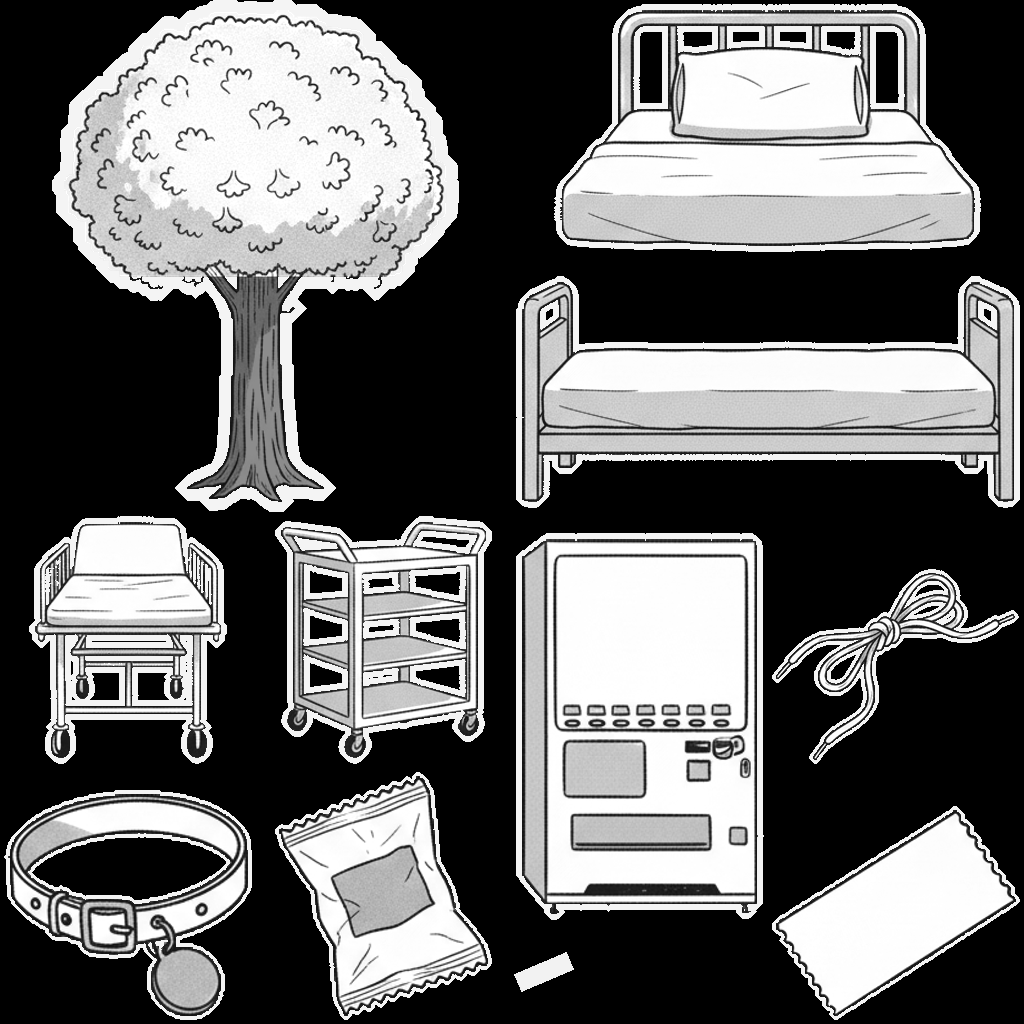
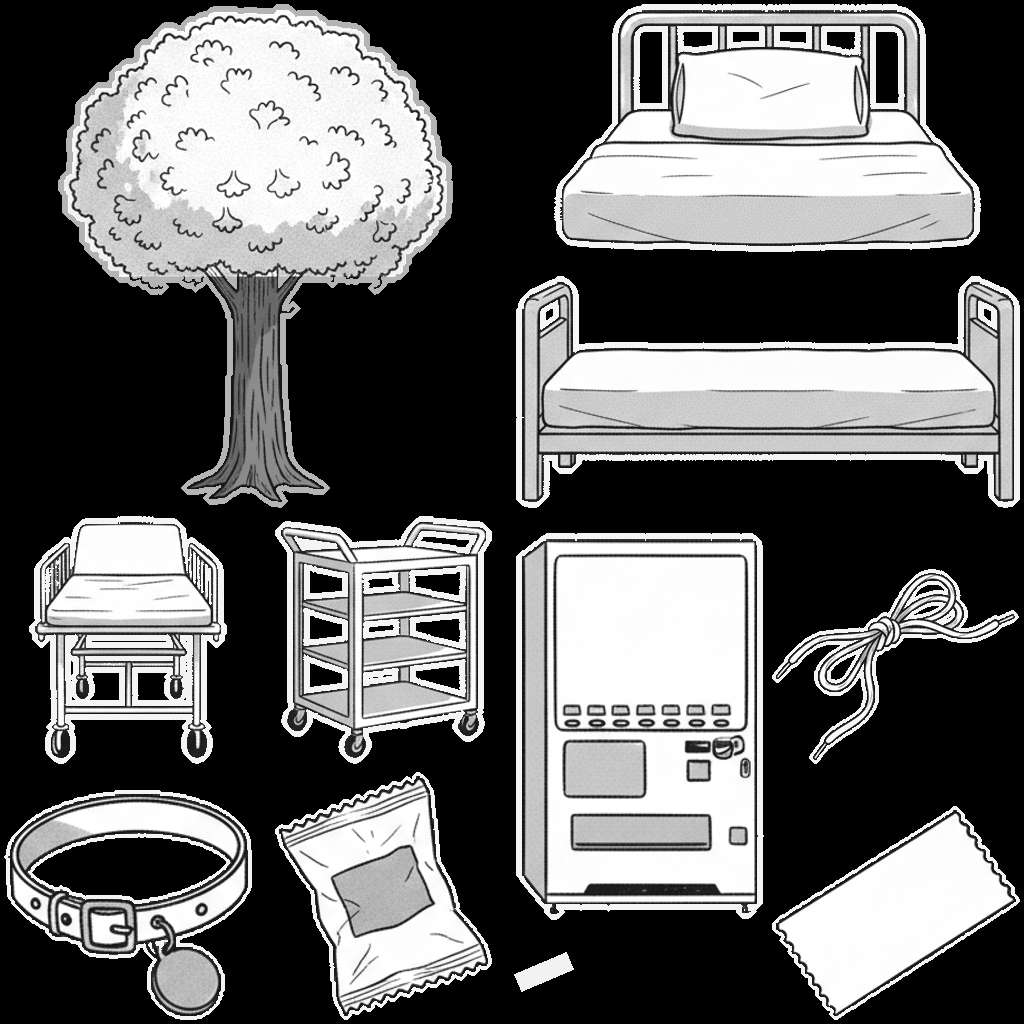
병문안 v0.60: 나무의 종이 여백이 창빛에 물들지 않게 함

diff --git a/scripts/assets/build-hospital-sheets.js b/scripts/assets/build-hospital-sheets.js
@@ -160,7 +160,7 @@ async function cut({ src, box, solid, keep, tone }) {
 }
 
 /** A white paper margin round everything in one cell, the way scissors would leave it. */
-function cutEdge(sheet, cell, radius) {
+function cutEdge(sheet, cell, radius, paper = 244) {
   const { x, y, w, h } = cell;
   const far = 255;
   const dist = new Uint8Array(w * h);
@@ -175,7 +175,7 @@ function cutEdge(sheet, cell, radius) {
       const k = j * w + i;
       if (dist[k] === 0) continue;
       dist[k] = Math.min(dist[k], Math.min(j < h - 1 ? dist[k + w] : far, i < w - 1 ? dist[k + 1] : far) + 1);
-      if (dist[k] <= radius) sheet[(y + j) * SHEET + x + i] = 244;
+      if (dist[k] <= radius) sheet[(y + j) * SHEET + x + i] = paper;
     }
   }
 }
@@ -203,7 +203,8 @@ async function buildSheet(name) {
         if (data[i + info.channels - 1] >= 128) sheet[(oy + y) * SHEET + ox + x] = Math.max(INK_FLOOR, data[i]);
       }
     }
-    cutEdge(sheet, item.cell, item.solid ? edge * 2 : edge);
+    // The tree takes the window's light on whatever is bright: its margin stays under that, or it turns the colour of the day.
+    cutEdge(sheet, item.cell, edge, item.solid ? 180 : 244);
   }
   if (name === 'props') {
     // her hairpin, the one thing on her with a colour of its own (the shader's)
